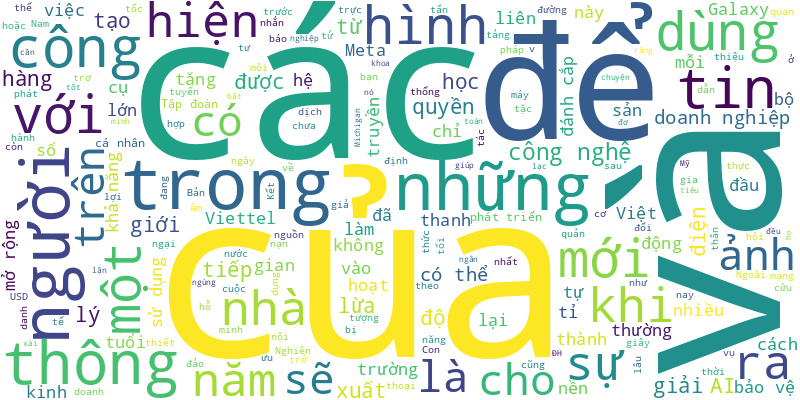
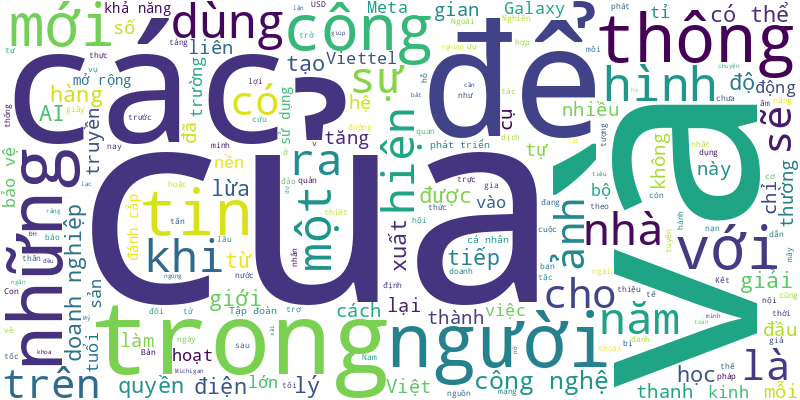
🍀 = 40%

diff --git a/README.md b/README.md
@@ -1,6 +1,17 @@
 # Tuoi Tre RSS 
 
 ## Giáo dục 
+- Bạo lực, kể cả về thể xác lẫn tinh thần, đều là phản giáo dục, không thể chấp nhận được trong môi trường giáo dục, thể hiện sự bất lực của người lớn khi không thể tìm được một cách nào tốt hơn.
+- Kết hợp khoa học, công nghiệp và đổi mới sáng tạo sẽ tạo ra môi trường phát triển động lực, tăng cường sức mạnh cạnh tranh của doanh nghiệp
+- Thành viên nhóm chuyên gia của dự thảo Luật Nhà giáo, khẳng định về chứng chỉ hành nghề đối với nhà giáo bên lề tọa đàm về dự án Luật Nhà giáo.
+- Trường đại học Đà Lạt đã hợp tác với hơn 100 doanh nghiệp mở cổng thông tin việc làm để hỗ trợ sinh viên tìm việc.
+- Nhiều ý kiến bạn đọc về vụ việc giáo viên chủ nhiệm ở TP.HCM cho 6 học sinh đánh bạn ngay trong lớp vì đi học muộn.
+- Sinh viên Trường đại học Nha Trang đua xe 4 bánh, tàu thủy tự chế trong ngày hội STEM.
+- Chủ tịch UBND TP Hải Phòng chỉ đạo làm rõ việc trẻ 5 tuổi theo học tại Trường mầm non An Dương, quận Lê Chân bị bầm tím lưng.
+- GS.TS Nguyễn Vũ Quốc Huy - hiệu trưởng - cho biết 'không có ý đánh đố thí sinh và phụ huynh' trong việc công bố học phí.
+- Trường THCS-THPT Trần Đại Nghĩa sẽ tuyển 350 học sinh lớp 6 và 205 học sinh lớp 10 năm học 2024-2025.
+- Tại quận Hà Đông, nếu căn cứ điểm chuẩn năm trước và tỉ lệ chọi năm nay, học sinh phải đạt 8,25 - 8,50 điểm mỗi môn mới hy vọng đỗ vào lớp 10.
+- Chỉ thị số 15 về tăng cường chỉ đạo, phối hợp tổ chức kỳ thi tốt nghiệp THPT và tuyển sinh đại học, giáo dục nghề nghiệp năm 2024.
 - Hiệu trưởng Trường THPT Nguyễn Thị Diệu, TP.HCM đã quyết định tạm đình chỉ công tác giáo viên cho 6 học sinh đánh bạn trong lớp học.
 - Sau khi Trường đại học Hà Nội thông báo sẽ tăng học phí năm học 2024 - 2025, nhiều sinh viên đã bày tỏ bức xúc.
 - Ngày 16-5, thông tin từ Phòng Giáo dục và Đào tạo quận Ninh Kiều (TP Cần Thơ) cho hay đã có chỉ đạo về việc chấn chỉnh công tác nuôi dạy trẻ tại các trường mầm non trên địa bàn, sau vụ việc cô giáo bị tố bạo hành khiến một trẻ 5 tuổi bầm tím mặt.
@@ -20,49 +31,38 @@
 - Những năm qua dư luận nói nhiều về chất lượng và tác động của việc kiểm định chất lượng giáo dục đại học.
 - Trường Quốc tế Á Châu (Asian School) đã tạo dựng 'bệ phóng' vững chắc để hàng ngàn học sinh tự tin chuyển tiếp du học thành công tại 502 trường ở 22 quốc gia.
 - Ban tổ chức Festival guitar talent toàn quốc năm 2024 vừa kêu gọi phụ huynh cảnh giác với các trò lừa đảo trên mạng.
-- Quy định về chứng chỉ hành nghề nhà giáo nằm trong một chương của dự thảo Luật Nhà giáo vừa được Bộ Giáo dục và Đào tạo công bố.
-- Trường đại học Kinh tế - Luật (Đại học Quốc gia TP.HCM) vừa chính thức mở cổng đăng ký các phương thức xét tuyển sớm đại học chính quy năm 2024.
-- Đây là chia sẻ của Bộ trưởng Nguyễn Kim Sơn trong buổi làm việc với Trường đại học Sư phạm Hà Nội sáng 15-5.
-- Sau phản ánh của Tuổi Trẻ Online trong bài viết “Chỉ còn vài ngày là tốt nghiệp, sinh viên bức xúc vì phải đóng thêm học phí”, phó hiệu trưởng nhà trường đã thông tin.
-- Mặc dù pháp luật hiện nay không cho phép nhưng nhiều ý kiến cho rằng cần có nhiều trưởng khoa, giảng viên là giám đốc doanh nghiệp để dạy tốt hơn, vì phải có thực tài mới làm được vậy.
-- Nhiều học sinh đăng ký vào lớp 10 năm nay chia sẻ đang như 'ngồi trên lửa' vì không biết Trường Trần Đại Nghĩa mới có thành lập không?
-- Cử tri Bình Dương phản ánh giáo viên TP Tân Uyên không được chi trả tiền lương dạy thêm giờ theo quy định.
-- Tỉ lệ 'chọi' thi vào lớp 10 ở TP.HCM có nhiều điểm bất ngờ. Trong đó, trường THPT tốp giữa lại có tỉ lệ 'chọi' cao hơn cả trường tốp đầu.
-- Liên quan đến phản ánh bữa ăn bán trú bị cắt xén, Ban Thường vụ huyện ủy Bắc Hà (Lào Cai) quyết định khai trừ Đảng đối với ông Trần Ngọc Hà.
-- Đại học Kinh tế TP.HCM có thông tin chính thức về việc GS.TS Võ Xuân Vinh xin rút khỏi hội đồng liêm chính học thuật và hội đồng giáo sư cơ sở UEH năm 2024.
-- Một không gian AI đa chiều, từ những chiếc smartphone, chatbot đến các công nghệ mới trong lĩnh vực y khoa, cùng với đó là những buổi hội thảo, workshop của các chuyên gia công nghệ hàng đầu, đã mang đến trải nghiệm có một không hai cho học sinh.
 ![Edu](Edu.png)
 ## Thời Sự 
-- Trận mưa đầu mùa ngày 15-5 gây ngập nhiều nơi tại TP.HCM qua đó bộc lộ một số vấn đề bất cập trong công tác chống ngập.
-- Công ty đường sắt đề nghị Đà Nẵng đình chỉ khu vực xây lấn phạm vi bảo vệ cầu đường sắt Nam Ô (quận Liên Chiểu) và rà soát lại phạm vi cấp giấy phép xây dựng.
-- Một số tin tức đáng chú ý: Hơn 300 dự án chưa giải ngân đồng nào; Giá USD ngân hàng quay đầu giảm; 86% ca tử vong do tai nạn giao thông ở TP.HCM là người đi xe máy...
-- Hôm nay thời tiết Bắc Bộ mưa giảm bớt, vùng núi vẫn mưa to. Nam Bộ ngày nắng nóng, chiều tối mưa nhiều nơi.
-- Một nhóm học sinh tại Quảng Trị đã xây dựng dự án phủ xanh rừng tự nhiên. Nhóm vừa trồng 1.000 cây xanh bản địa như lim, sến, lát hoa tại Khu bảo tồn thiên nhiên Đakrông.
-- Chiều 16-5, Đà Nẵng tổ chức lễ khai trương phòng nuôi con bằng sữa mẹ tại nhà ga quốc tế Đà Nẵng, nhân dịp kỷ niệm Ngày Hiến tặng sữa mẹ thế giới (19-5).
-- Tối 16-5, Ban Quản lý đường sắt đô thị TP.HCM đã có thông tin gửi báo chí về phản hồi của đại sứ Nhật Bản đối với tình hình tiến độ dự án metro số 1.
-- PGS.TS Lê Anh Tuấn cho rằng người Pháp đến đô hộ khi Đồng bằng sông Cửu Long đã hình thành những trấn với các khu dân cư, họ chỉ đặt nền hành chính tại đây, không quy hoạch rồi làm các đô thị cách nhau 60km.
-- Phó chủ tịch Tổng liên đoàn Lao động Việt Nam Ngọ Duy Hiểu và Chủ tịch UBND tỉnh Quảng Ninh Cao Tường Huy xuống hầm lò khai thác than ở Quảng Ninh để thăm hỏi, động viên công nhân đang sản xuất.
-- Để đảm bảo tiến độ dự án vành đai 3 TP.HCM cần phải đẩy nhanh các thủ tục gia hạn, cấp phép khai thác mỏ cát.
-- Độc quyền của SJC không mang lợi ích cho Công ty SJC hay một cá nhân, tập thể nào. Ngược lại, Công ty SJC luôn bị mang tiếng độc quyền để trục lợi, kiến nghị cho phép nhập khẩu vàng.
-- Đó là thông tin đại diện Sở Công Thương TP.HCM nêu ra tại họp báo kinh tế - xã hội chiều 16-5 theo tiến độ giai đoạn 1 đề án lắp đặt điện mặt trời áp mái trên trụ sở công.
-- Để có mặt bằng làm các dự án hạ tầng giao thông lớn ở TP.HCM, nhiều cây xanh phải di dời hoặc bị đốn hạ.
-- Cụ bà L.T.N. bị tai nạn giao thông khiến bàn chân gần đứt lìa đã được các bác sĩ phẫu thuật nối lại thành công.
-- 11 hài cốt liệt sĩ là quân tình nguyện và chuyên gia Việt Nam hy sinh tại Lào đã được tìm thấy đưa về nước an táng.
-- Chiều 16-5, Trang tin điện tử Đảng bộ TP.HCM tổ chức hội nghị họp mặt kỷ niệm 20 năm thành lập trang (20-4-2004 - 20-4-2024).
-- Bộ Giao thông vận tải đề nghị UBND tỉnh Nam Định rà soát khả năng cân đối vốn, quy mô, suất đầu tư dự án đường cao tốc Hà Nam - Nam Định.
-- Tỉnh Quảng Nam bất ngờ nhận văn bản đòi khoản nợ hơn 500.000 USD và hơn 27.000 USD tiền lãi vay tiền làm dự án chậm đóng.
-- Sau khi tiếp nhận nhiều phản ánh của báo chí về tính hiệu quả của hệ thống thoát nước đường Võ Văn Ngân sau trận mưa chiều 15-5, Phó chủ tịch UBND TP Thủ Đức Mai Hữu Quyết đã có phản hồi chính thức.
-- Các ông Lê Minh Hưng, Nguyễn Trọng Nghĩa, Đỗ Văn Chiến và bà Bùi Thị Minh Hoài đã được Ban Chấp hành Trung ương Đảng bầu bổ sung làm ủy viên Bộ Chính trị khóa XIII.
-- Ban Chấp hành Trung ương Đảng quyết định khai trừ Đảng ông Mai Tiến Dũng, Dương Văn Thái, cách tất cả chức vụ trong Đảng ông Lê Thanh Hải.
-- Ban Chấp hành Trung ương Đảng đã quyết định giới thiệu nhân sự để bầu giữ chức Chủ tịch nước, Chủ tịch Quốc hội nhiệm kỳ 2021 - 2026.
-- Ban Chấp hành Trung ương Đảng đã đồng ý cho bà Trương Thị Mai thôi giữ các chức vụ Ủy viên Bộ Chính trị, Ủy viên Trung ương Đảng khóa XIII.
-- Chủ nhiệm Tổng cục Chính trị Quân đội nhân dân Việt Nam, Đại tướng Lương Cường đã được Bộ Chính trị phân công làm Thường trực Ban Bí thư thay bà Trương Thị Mai.
-- Năm 2023, chỉ số chuyển đổi số của huyện Nhà Bè được xếp cuối bảng ở khối địa phương, đại diện huyện này cho biết do việc phối hợp báo cáo còn thiếu sót…
-- Ô tô bảng số xanh chở giám đốc Sở Tư pháp tỉnh Khánh Hòa gặp tai nạn nhiều người bị thương.
-- Kiên Giang những ngày qua có mưa khiến cho nồng độ mặn ở các kênh, sông nội đồng giảm. Tuy nhiên, vùng đệm U Minh Thượng sạt lở, sụt lún đất, đứt gãy đường càng thêm nghiêm trọng, ảnh hưởng đến đời sống người dân địa phương.
-- Báo cáo của cơ quan chức năng TP Thủ Đức nhận định dự án thoát nước đường Võ Văn Ngân đã phát huy hiệu quả, nhưng mưa vượt thiết kế. Vì vậy cống bung, đường bể.
-- Ngày 16-5, Công an huyện Củ Chi (TP.HCM) lập hồ sơ, điều tra nguyên nhân tử vong của một người đàn ông được phát hiện chết trên cột điện ở xã Tân Thạnh Tây.
-- Sau khi ra quân "giải cứu" vào chiều 13-5, kênh Nước Đen (quận Bình Tân, TP.HCM) đã được dọn sạch rác và lục bình, người dân vui mừng vì đã bớt mùi hôi, thông thoáng hơn.
+- Các hãng bay đều thừa nhận giá vé có tăng nhưng không... vượt giá trần do Chính phủ quy định!
+- Đang ru con ngủ trong căn nhà 35m², chị Đặng Mỹ Thu (công nhân Công ty TNHH Yamaneseiki Việt Nam - Hà Nam, quê Điện Biên) nói chỗ ở mới rất đẹp, tiện nghi và sạch sẽ.
+- Hôm nay 18-5, thời tiết nhiều nơi có mưa. Nam Bộ ngày nắng, chiều tối mưa rào; Bắc Bộ, Tây Nguyên, Tây Nam Bộ mưa to.
+- Một số tin tức đáng chú ý: Trình Chính phủ tăng lương tối thiểu vùng từ 1-7; 'Thủ phạm' gây áp lực lạm phát; Huy động 13.800 tỉ đồng "xanh hóa" xe buýt...
+- 2 cuốn sách "Hồ Chí Minh - Trái tim quả đất" và "Chủ tịch Hồ Chí Minh - Tư tưởng lý luận, phong cách, đạo đức soi sáng đường chúng ta đi" vừa được trao tặng cho Ban Tuyên giáo Thành ủy TP.HCM.
+- Thủ tướng yêu cầu các doanh nghiệp, chủ đầu tư dự án lập tiến độ, chuẩn bị đầy đủ nguồn lực tài chính, rút ngắn thời gian thi công; công bố công khai thông tin về dự án nhà ở xã hội để người dân biết.
+- Lãnh đạo TP Thủ Đức kiến nghị Sở Nội vụ bố trí số cấp phó dôi dư đến làm việc tại các địa phương khác hoặc đơn vị có nhu cầu, TP Thủ Đức cũng sẽ cố gắng sắp xếp trong khả năng.
+- Ngày 17-5, tân Đại sứ Nhật Bản Ito Naoki trình quốc thư lên quyền Chủ tịch nước Võ Thị Ánh Xuân, đánh dấu việc chính thức bắt đầu nhiệm kỳ 4 năm tại Việt Nam.
+- Hình ảnh nhóm yoga nằm, ngồi giữa đường chụp hình bằng lăng tím được cho xảy ra tại tuyến đường Trần Hưng Đạo, thị trấn Thanh Nê, huyện Kiến Xương, Thái Bình.
+- Ổ dịch tả heo châu Phi vừa được phát hiện tại thôn 1, xã Tiền Phong, thị xã Quảng Yên, Quảng Ninh.
+- UBND TP.HCM vừa báo cáo Bộ Giao thông vận tải về phương án đầu tư, nâng cấp dự án vành đai 3 TP.HCM theo quy mô hoàn chỉnh.
+- Nội dung kịch bản diễn tập chiều 17-5 là đoàn tàu metro Nhổn - ga Hà Nội đi từ ga S02 - Minh Khai về ga S01 - Nhổn thì hành khách phát hiện khói bốc cháy dữ dội trên tàu.
+- Quá trình thi công dự án nâng cấp quốc lộ 8A làm ảnh hưởng hơn 160 nhà dân nằm ngoài phạm vi giải phóng mặt bằng.
+- Tảng đá lở trên quốc lộ 6 vào chiều 17-5 khiến 2 ô tô bị đè trúng. Những người ngồi trong xe đều thoát nạn.
+- Trong ngày làm việc thứ 2 của Hội nghị Trung ương Đảng lần thứ 9, Ban Chấp hành Trung ương đã làm việc tại tổ, thảo luận các nội dung quan trọng.
+- Đến năm 2028 mới đến tuổi nghỉ hưu nhưng ông Đoàn Minh Thọ, chủ tịch UBND thị xã Ba Đồn (Quảng Bình), đã chủ động làm đơn xin nghỉ hưu trước tuổi.
+- Một chiếc xe con đang chạy trên đường bất ngờ bốc cháy dữ dội. Khi xảy ra vụ việc, có hai người trên xe, nhưng rất may không có ai bị thương.
+- Thang máy tự chế vận chuyển vật liệu xây dựng bất ngờ rơi tự do, dẫn tới 7 người bị thương phải cấp cứu.
+- Hàng loạt dự án nghỉ dưỡng, du lịch nằm trên tuyến đường ven biển của Quảng Nam chậm tiến độ, thi công dang dở. Có dự án bỏ hoang, bị tỉnh chấm dứt hoạt động.
+- Đại diện Cục Cảnh sát giao thông cho biết việc sử dụng rượu bia khi lái xe gây ra nhiều hậu quả nghiêm trọng và liên quan đến các hành vi khác như giết người, gây rối... Vì vậy cần cấm tuyệt đối nồng độ cồn với tài xế.
+- Liên quan đến vụ nhà xe Đại Ngân lập một số “bến cóc” tại quận 5 tiềm ẩn nguy cơ mất an toàn giao thông, ùn ứ xe cộ, cơ quan chức năng vừa có thông tin cụ thể.
+- Chiều 17-5, nhiều cựu chiến binh ở các huyện vùng cao Quảng Nam có mặt tại gian trưng bày kỷ vật Huyền thoại Trường Sơn đã nghẹn ngào xúc động, khi thấy một phần hình ảnh của mình trong những ngày đỏ lửa.
+- Cựu bộ trưởng Nguyễn Thanh Long được tòa phúc thẩm chấp nhận kháng cáo giảm nhẹ hình phạt, do nộp thêm 1 tỉ giúp tổng giám đốc Công ty Việt Á khắc phục hậu quả.
+- Công an quận Tây Hồ (Hà Nội) xác định thi thể nam giới được tìm thấy ở phường Nhật Tân có liên quan đến vụ án mạng xảy ra tại huyện Sóc Sơn hôm 13-5.
+- Liên quan đến vụ việc người nhà tố Bệnh viện Thu Cúc tắc trách khiến thai nhi tử vong trong bụng mẹ, hội đồng chuyên môn của Sở Y tế Hà Nội đã có thông tin kết luận.
+- Việc nước sạch chảy yếu vào cuối tuần này ở một số quận tại TP.HCM vì liên quan đến hoạt động khảo sát, sửa chữa sự cố xì bể tuyến ống thép DN1000 và lắp đặt thêm 1 bơm nước sạch.
+- Sau 5 năm không nhìn thấy, mới đây một đàn voọc bạc gồm 7 con đã xuất hiện trở lại tại Vườn quốc gia Chư Mom Ray (Kon Tum).
+- UBND TP.HCM vừa có quyết định về giao biên chế công chức hành chính làm việc tại UBND phường thực hiện chính quyền đô thị giai đoạn 2024-2026.
+- Nguyên nhân nào khiến suối Lương - dòng suối duy nhất chảy từ rừng Hải Vân về Đà Nẵng - đang trong tình trạng khô cạn, trơ trọi toàn sỏi, đá?
+- Đoàn cựu chiến binh vì hòa bình - chi hội 160 đã trao tặng 60 chiếc xe đạp hỗ trợ giáo dục cho trẻ em của 3 huyện tại Quảng Trị.
 ![New](News.png)
 ## Nhịp sống số 
 - Nhiều người thường ngại ngùng khi bắt chuyện lại với người bạn đã lâu không liên lạc. Các nhà khoa học đã có cách giúp họ.
